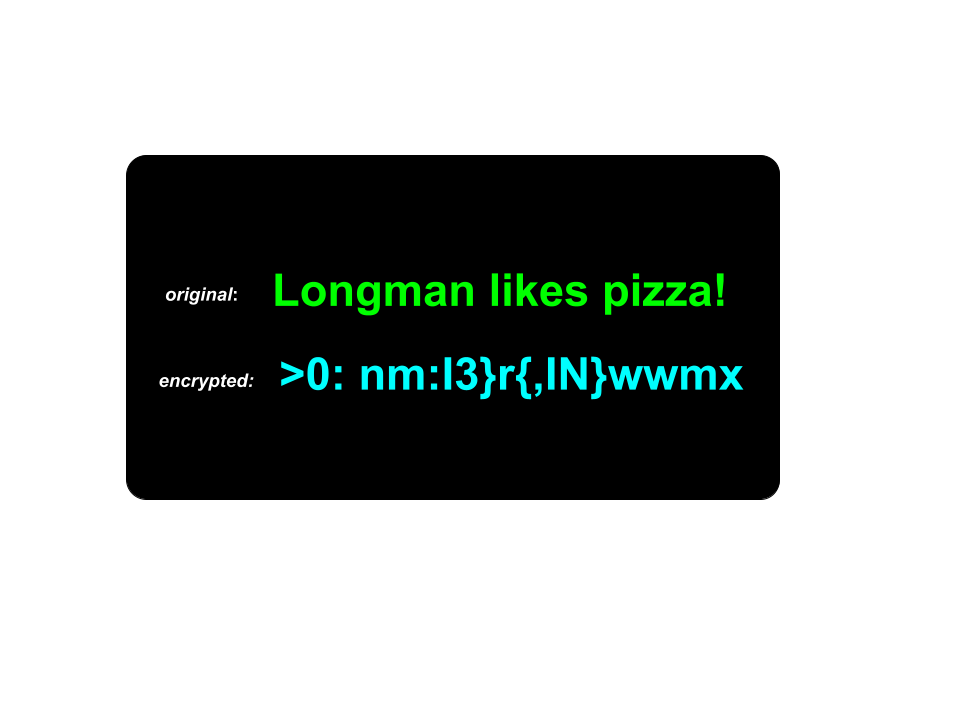
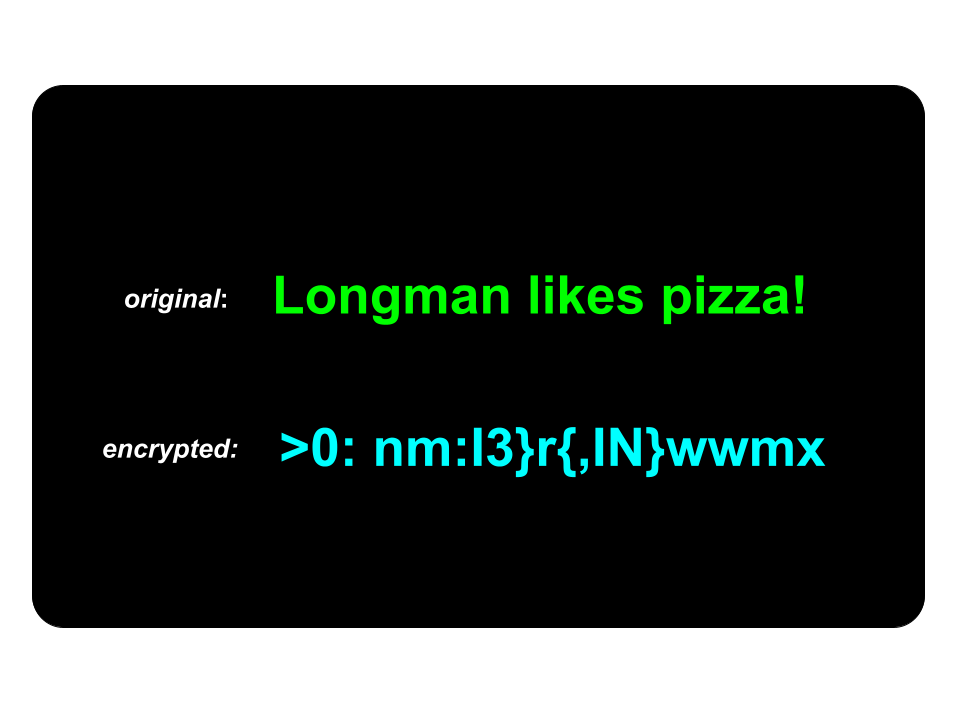
Adjusted image margin resized sample image

diff --git a/README.md b/README.md
@@ -1,4 +1,4 @@
-<div style="text-align: center; margin-bottom: 20px;">
+<div style="text-align: center; margin-bottom: 10px;">
   <img src="sample/sample.png" alt="Substitution Cipher Flow" style="max-width: 400px;" />
 </div>
 
@@ -6,11 +6,6 @@
 
 This Python program implements a simple **substitution cipher** to encrypt and decrypt text messages.  
 It works by mapping each character in a predefined character set to a randomly shuffled version of itself.
-
----
-
-## Sample  
-*Example: How characters are mapped during encryption and decryption.*
 
 ---
 
